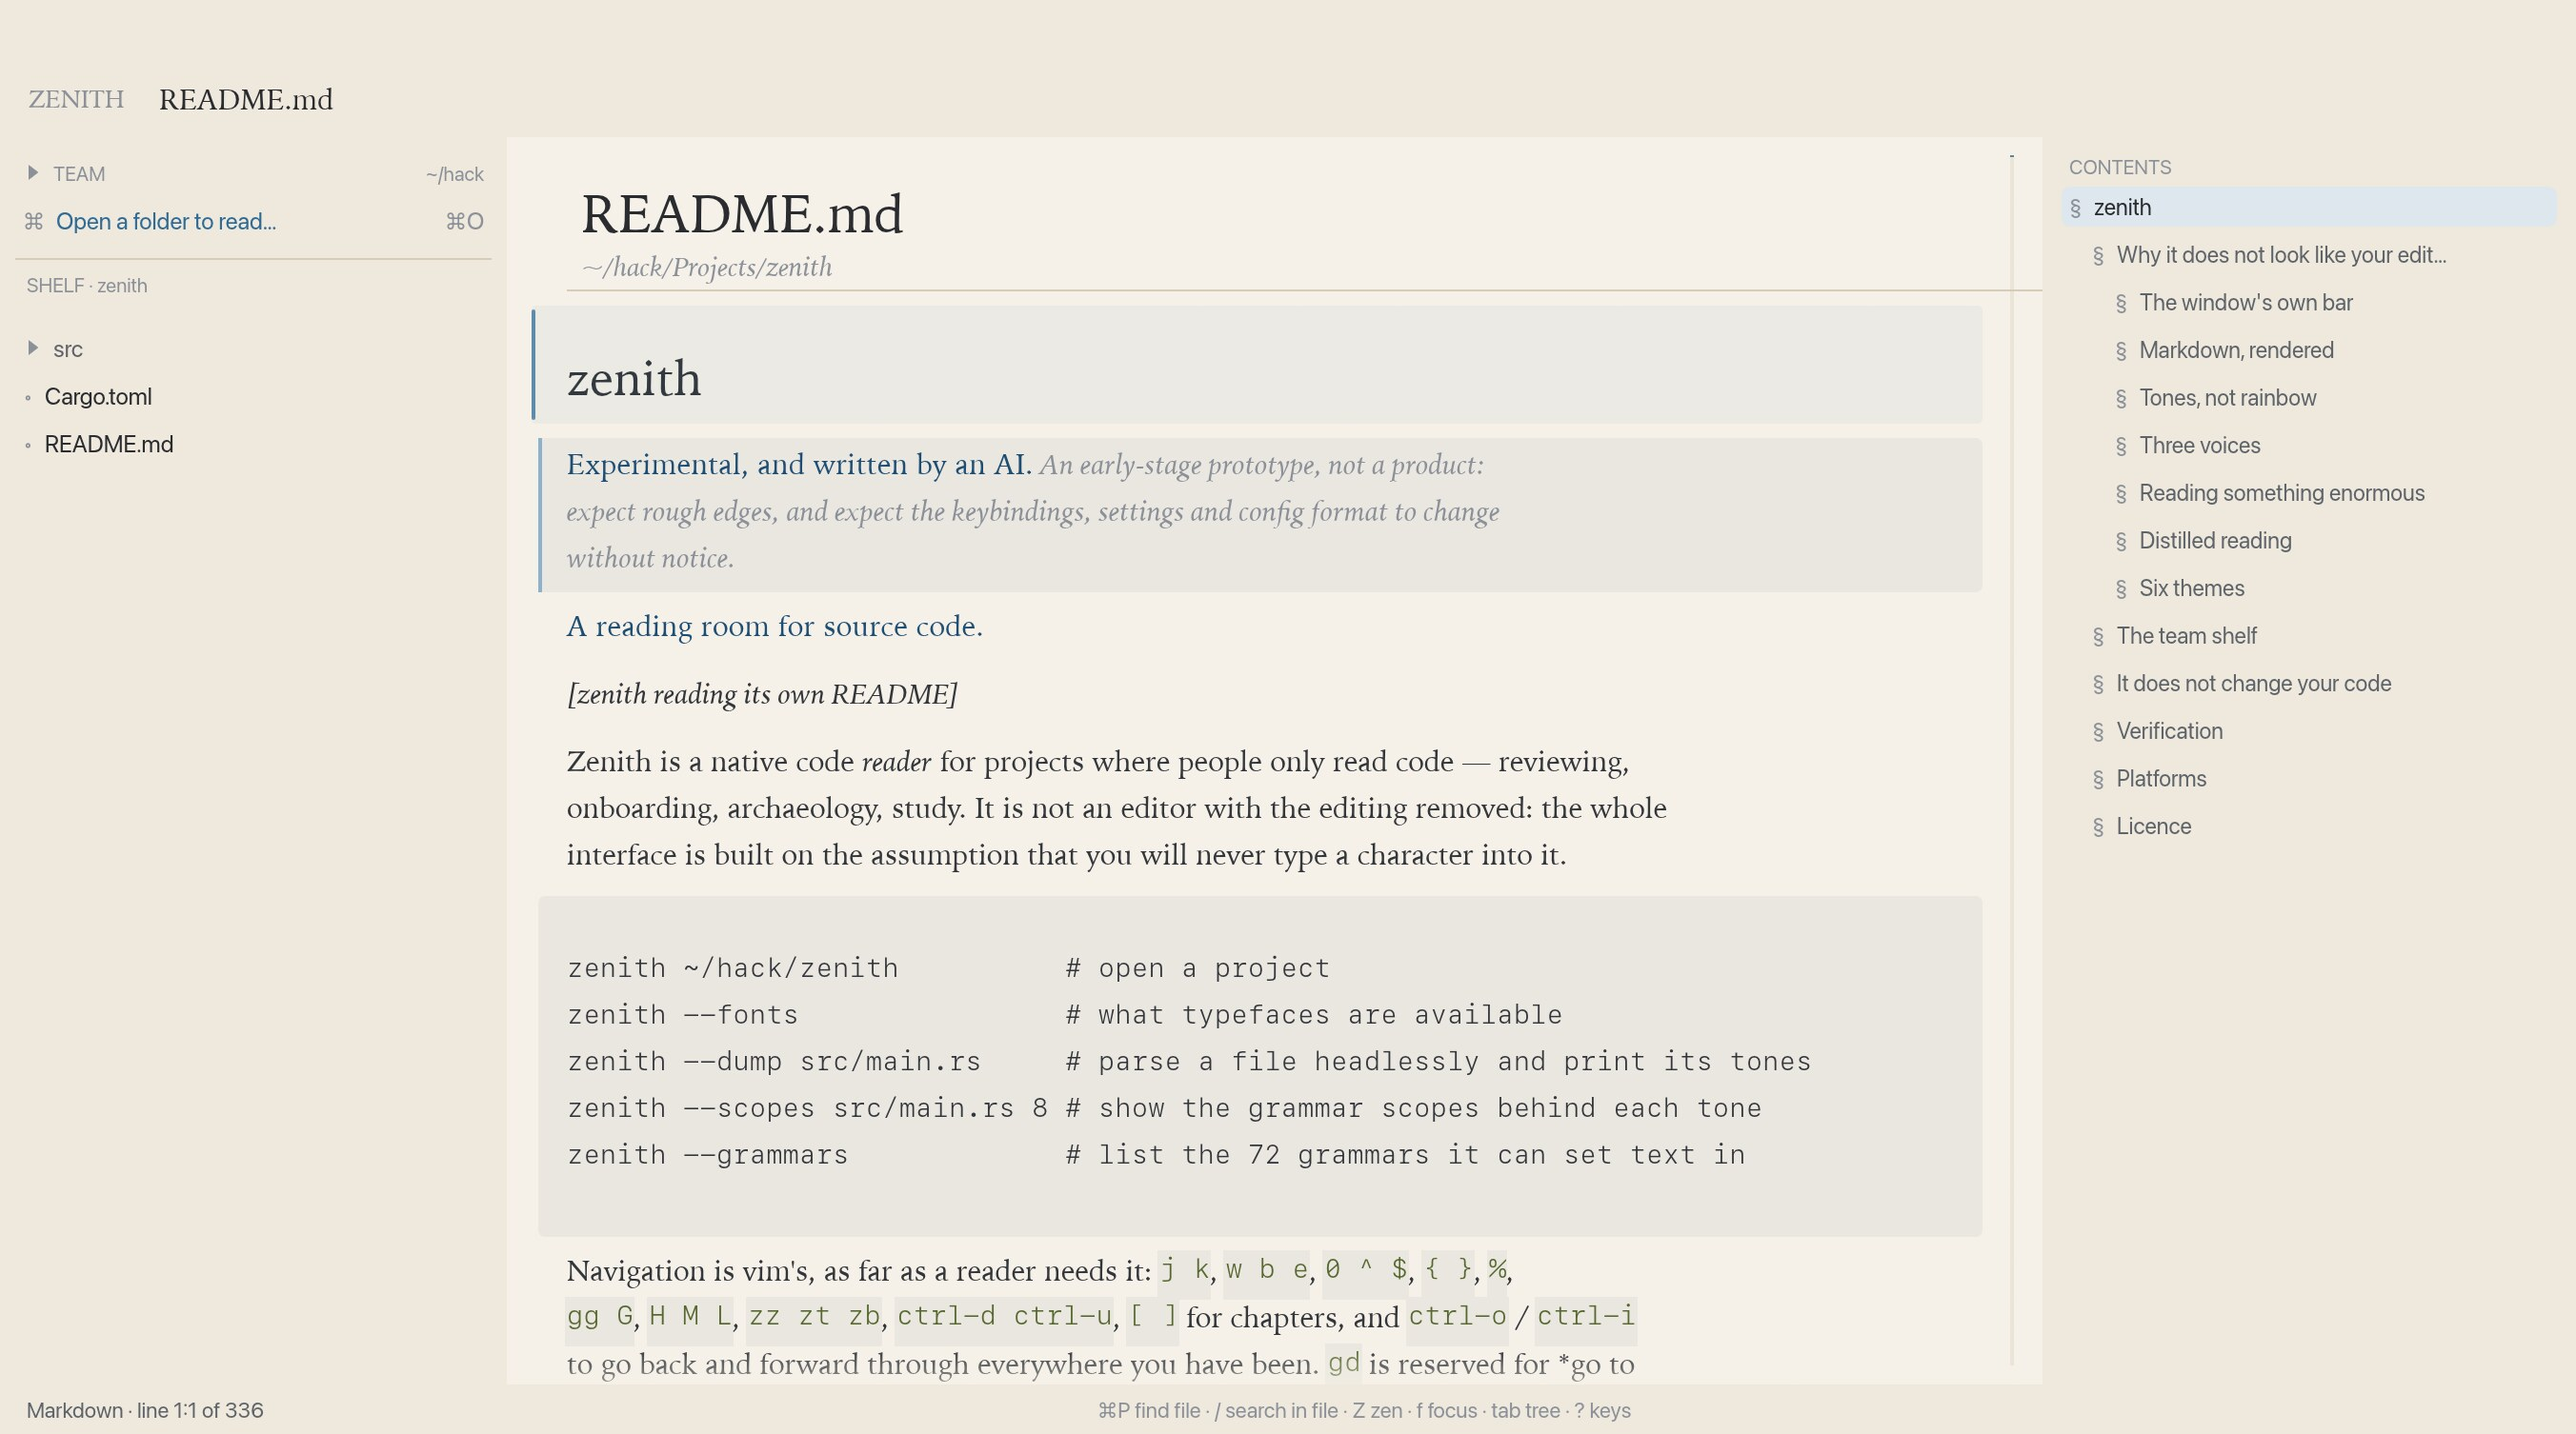
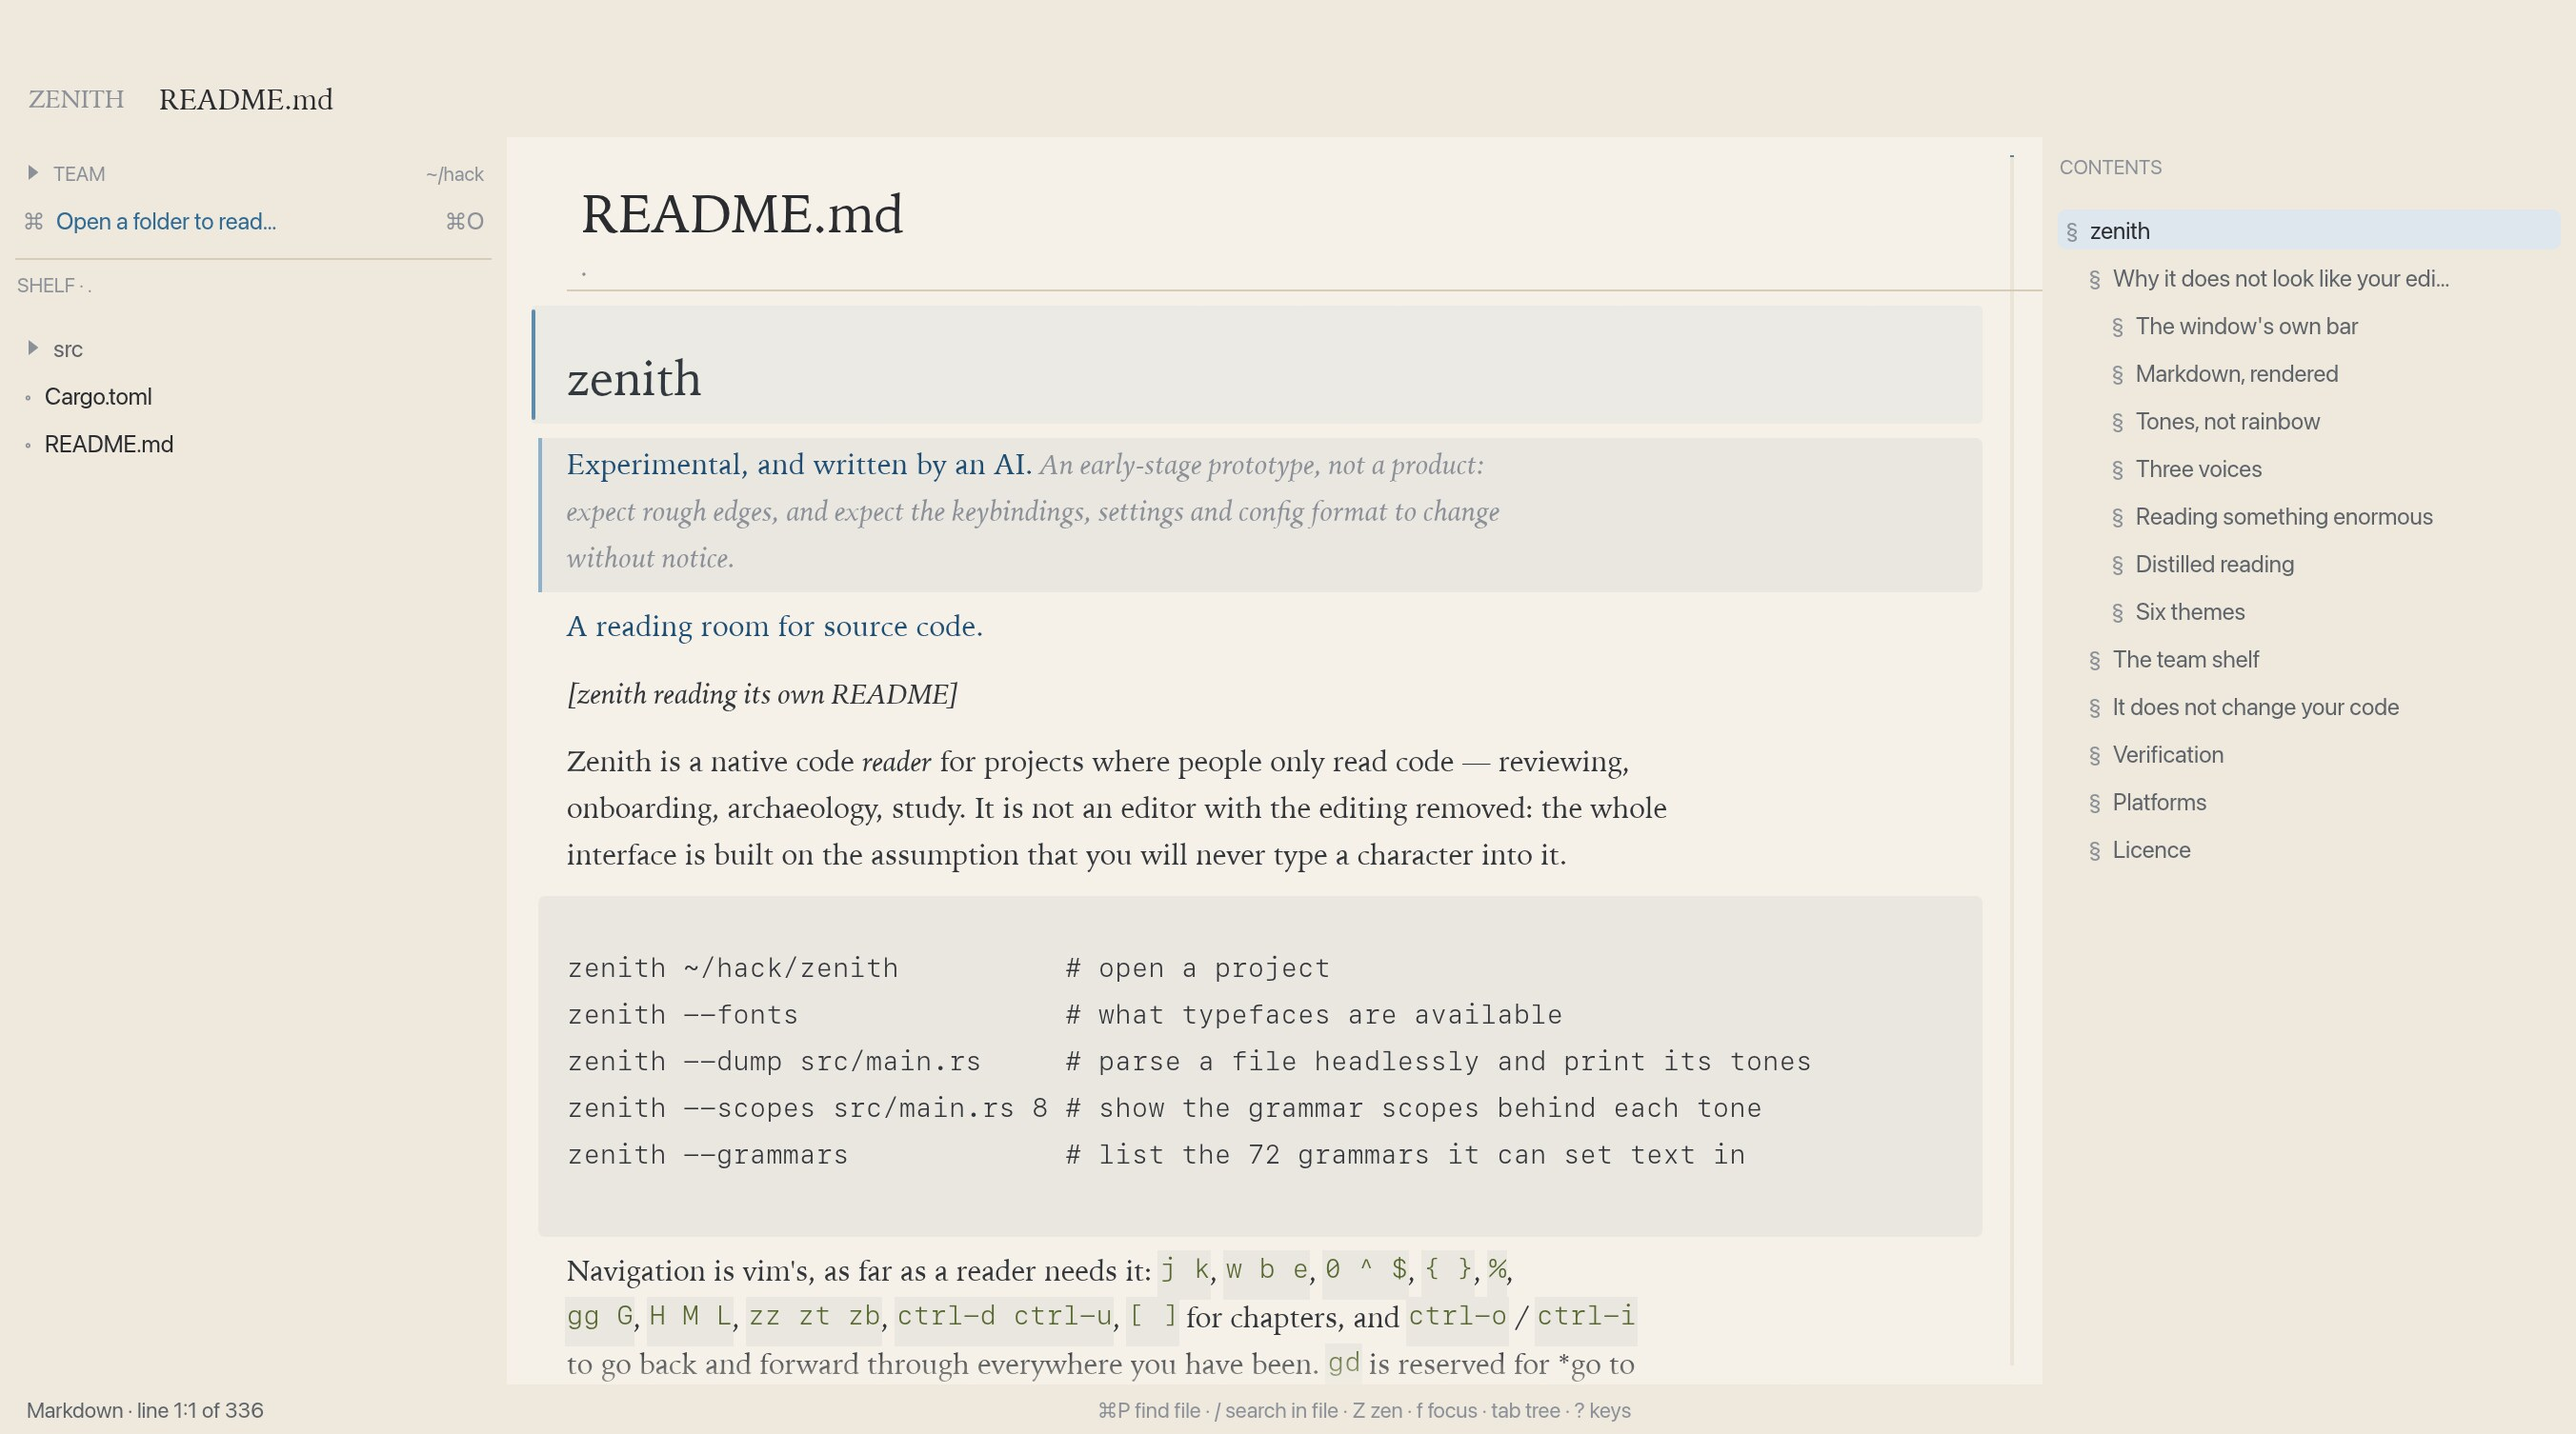
Give the two sidebars one frame and one rhythm
The shelf panel and the contents panel were built at different times and had
drifted: an 8-point inner margin on one and 10 on the other, a 30-point gap
between the label and the list on one and 18 on the other, and 12.5-point rows
against 12.0. Two columns that close together are read as one system, and theirs
did not line up — the labels sat at different heights and the lists began at
different ones.

They now share constants: the same inner margin, the same drop for the label, the
same gap between label and list, the same row height and the same type size. Only
the label text differs, which is the point.

Changed region(s): [[0.8077, 0.0936, 0.932, 0.593], [0.0, 0.1873, 0.0311, 0.2185]]

diff --git a/src/app.rs b/src/app.rs
@@ -1935,8 +1935,8 @@ impl Zenith {
 
     fn shelf_panel(&mut self, ui: &mut Ui) {
         let pal = self.palette;
-        let font = self.typo.ui_id(12.5 * self.scale);
-        let label_font = self.typo.ui_id(10.5 * self.scale);
+        let font = self.typo.ui_id(PANEL_ROW_FONT * self.scale);
+        let label_font = self.typo.ui_id(PANEL_LABEL_FONT * self.scale);
 
         // Collect what we need before mutating. The rows come from the one list the
         // keyboard walks, so a row and its key action can never disagree about which row
@@ -1972,7 +1972,7 @@ impl Zenith {
             .frame(
                 Frame::NONE
                     .fill(pal.panel)
-                    .inner_margin(Margin::symmetric(8, 8)),
+                    .inner_margin(Margin::symmetric(PANEL_MARGIN_X, PANEL_MARGIN_Y)),
             )
             .show(ui, |ui| {
                 // -- every row above the shelf, drawn from the same list the keyboard
@@ -2050,7 +2050,7 @@ impl Zenith {
 
                 // -- the shelf
                 ui.painter().text(
-                    Pos2::new(ui.cursor().left() + 6.0, ui.cursor().top() + 7.0),
+                    Pos2::new(ui.cursor().left() + 1.0, ui.cursor().top() + PANEL_LABEL_DROP),
                     Align2::LEFT_CENTER,
                     format!("SHELF · {shelf_name}"),
                     label_font.clone(),
@@ -2099,7 +2099,7 @@ impl Zenith {
                         .on_hover_text(RichText::new(note).font(label_font.clone()));
                     }
                 }
-                ui.add_space(30.0);
+                ui.add_space(PANEL_LABEL_GAP);
 
                 ScrollArea::vertical()
                     .id_salt("zenith-tree")
@@ -2195,8 +2195,8 @@ impl Zenith {
 
     fn outline_panel(&mut self, ui: &mut Ui) {
         let pal = self.palette;
-        let font = self.typo.ui_id(12.0 * self.scale);
-        let label_font = self.typo.ui_id(10.5 * self.scale);
+        let font = self.typo.ui_id(PANEL_ROW_FONT * self.scale);
+        let label_font = self.typo.ui_id(PANEL_LABEL_FONT * self.scale);
         let glyph_font = self.typo.code_id(11.0 * self.scale);
 
         let items: Vec<(String, String, usize, usize, String, SymKind)> = self
@@ -2241,17 +2241,17 @@ impl Zenith {
             .frame(
                 Frame::NONE
                     .fill(pal.panel)
-                    .inner_margin(Margin::symmetric(10, 8)),
+                    .inner_margin(Margin::symmetric(PANEL_MARGIN_X, PANEL_MARGIN_Y)),
             )
             .show(ui, |ui| {
                 ui.painter().text(
-                    Pos2::new(ui.cursor().left() + 4.0, ui.cursor().top() + 7.0),
+                    Pos2::new(ui.cursor().left() + 1.0, ui.cursor().top() + PANEL_LABEL_DROP),
                     Align2::LEFT_CENTER,
                     "CONTENTS",
                     label_font.clone(),
                     pal.ink_faint,
                 );
-                ui.add_space(18.0);
+                ui.add_space(PANEL_LABEL_GAP);
                 if !some_open {
                     return;
                 }
@@ -3434,6 +3434,18 @@ fn count_lines(text: &str) -> usize {
 }
 
 
+// The two sidebars are one system, so they share a frame and a rhythm: the same inner
+// margin, the same drop for the label, the same gap between that label and the list, the
+// same row height and the same type size. Otherwise the eye reads them as two unrelated
+// columns that happen to be adjacent — which is what "not vertically aligned" means.
+const PANEL_MARGIN_X: i8 = 8;
+const PANEL_MARGIN_Y: i8 = 8;
+const PANEL_LABEL_DROP: f32 = 7.0;
+const PANEL_LABEL_GAP: f32 = 30.0;
+const PANEL_ROW_H: f32 = 21.0;
+const PANEL_ROW_FONT: f32 = 12.5;
+const PANEL_LABEL_FONT: f32 = 10.5;
+
 /// How wide three window buttons are, so the dragging area can stop before them.
 fn window_buttons_width() -> f32 {
     3.0 * (12.0 + 10.0) + 8.0
@@ -3546,7 +3558,8 @@ fn row(
     // distribution happens to ship, and on some machines the tree had no carets at all.
     caret_open: Option<bool>,
 ) -> egui::Response {
-    let (_rect, resp) = ui.allocate_exact_size(vec2(ui.available_width(), 21.0), Sense::click());
+    let (_rect, resp) =
+        ui.allocate_exact_size(vec2(ui.available_width(), PANEL_ROW_H), Sense::click());
     let rect = resp.rect;
     if selected {
         ui.painter()
